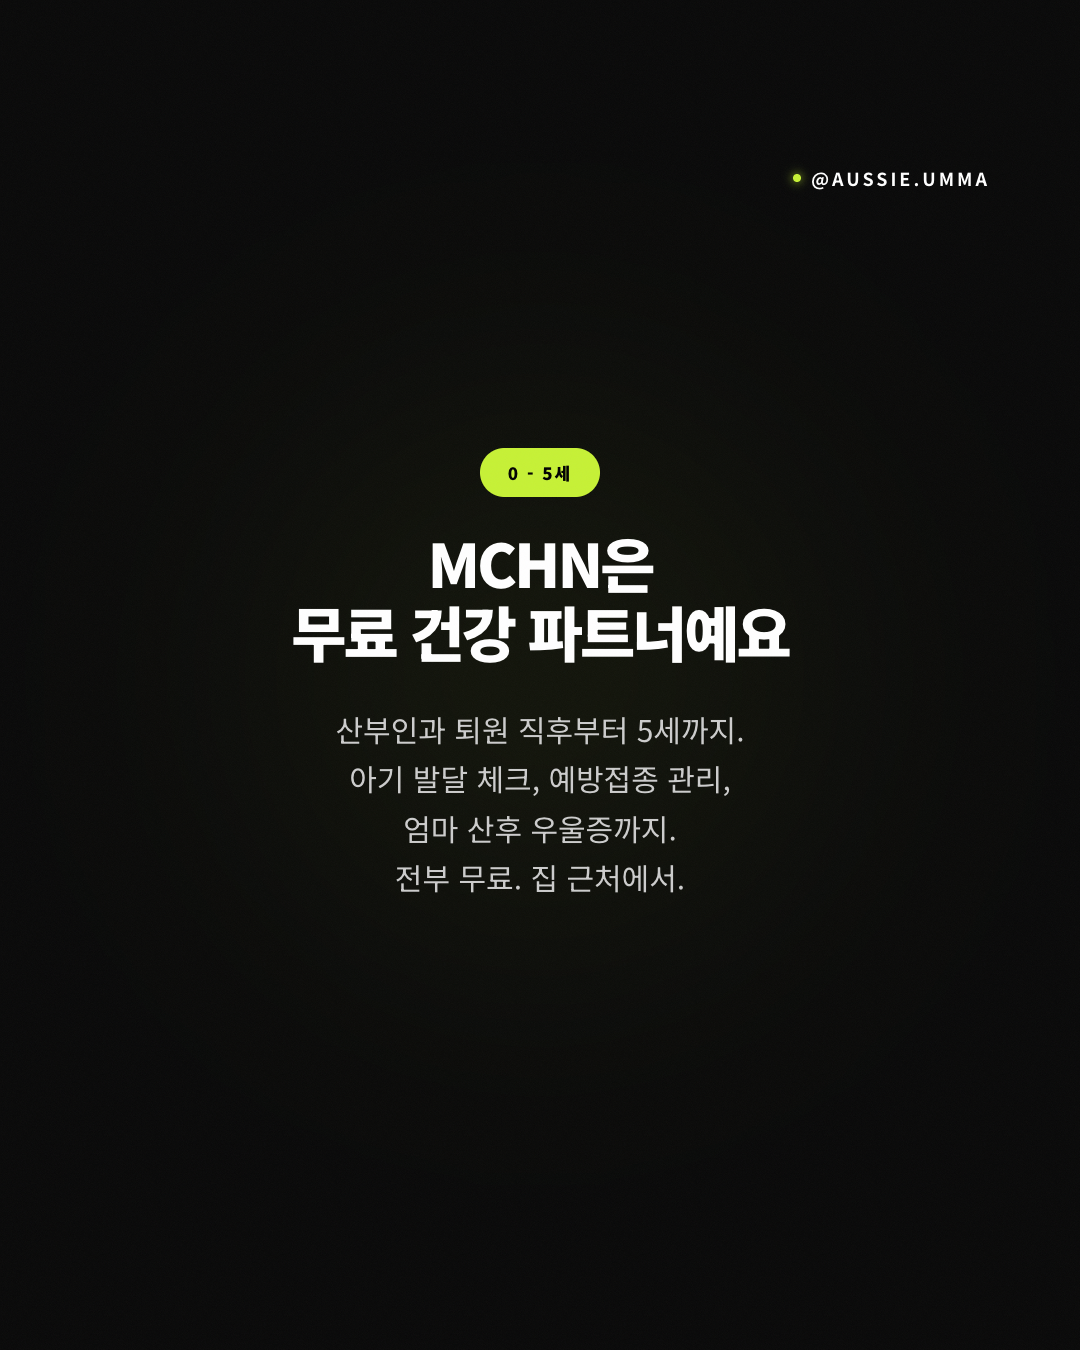
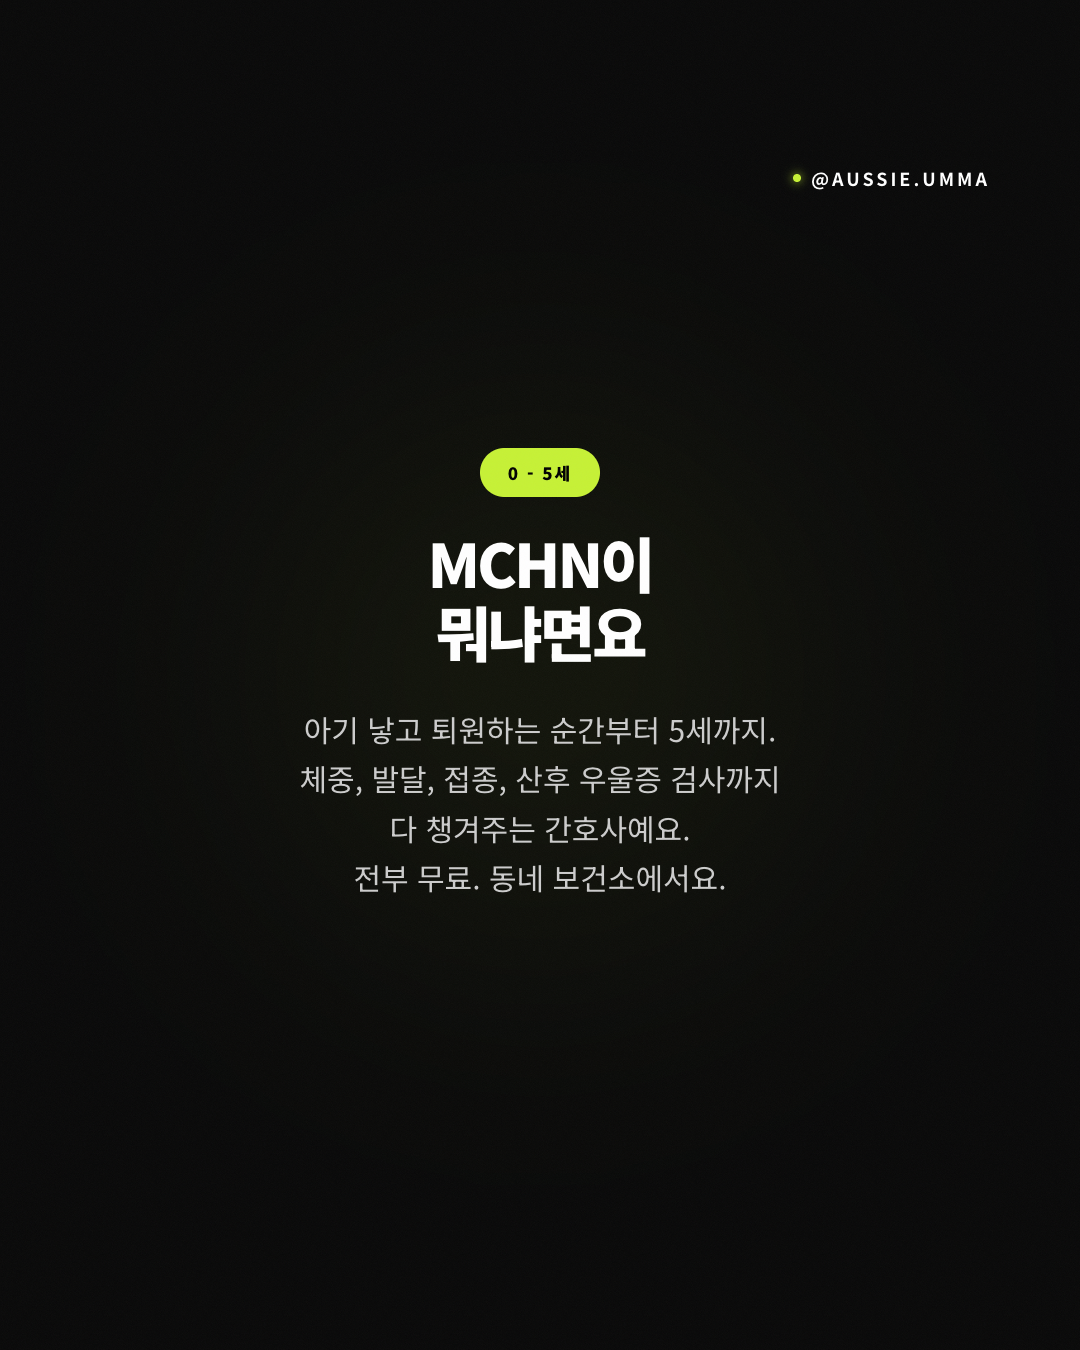
fix: rewrite MCHN card 3 — natural voice, no brochure tone

Changed region(s): [[0.275, 0.5289, 0.7333, 0.6844], [0.275, 0.3733, 0.7333, 0.4978]]

diff --git a/outputs/aussie-umma/2026-07-09/run-1/mchn-green-book-guide.html b/outputs/aussie-umma/2026-07-09/run-1/mchn-green-book-guide.html
@@ -62,8 +62,8 @@ body{background:#000;font-family:var(--font-kr);color:var(--ink);display:flex;fl
 <div class="glow" style="width:500px;height:500px;top:50%;left:50%;transform:translate(-50%,-50%)"></div>
 <div class="ci">
 <div class="badge badge-a" style="margin-bottom:30px">0 - 5세</div>
-<div class="td-kr" style="font-size:60px;margin-bottom:40px">MCHN은<br>무료 건강 파트너예요</div>
-<div class="tb">산부인과 퇴원 직후부터 5세까지.<br>아기 발달 체크, 예방접종 관리,<br>엄마 산후 우울증까지.<br>전부 무료. 집 근처에서.</div>
+<div class="td-kr" style="font-size:60px;margin-bottom:40px">MCHN이<br>뭐냐면요</div>
+<div class="tb">아기 낳고 퇴원하는 순간부터 5세까지.<br>체중, 발달, 접종, 산후 우울증 검사까지<br>다 챙겨주는 간호사예요.<br>전부 무료. 동네 보건소에서요.</div>
 </div>
 </section>
 
